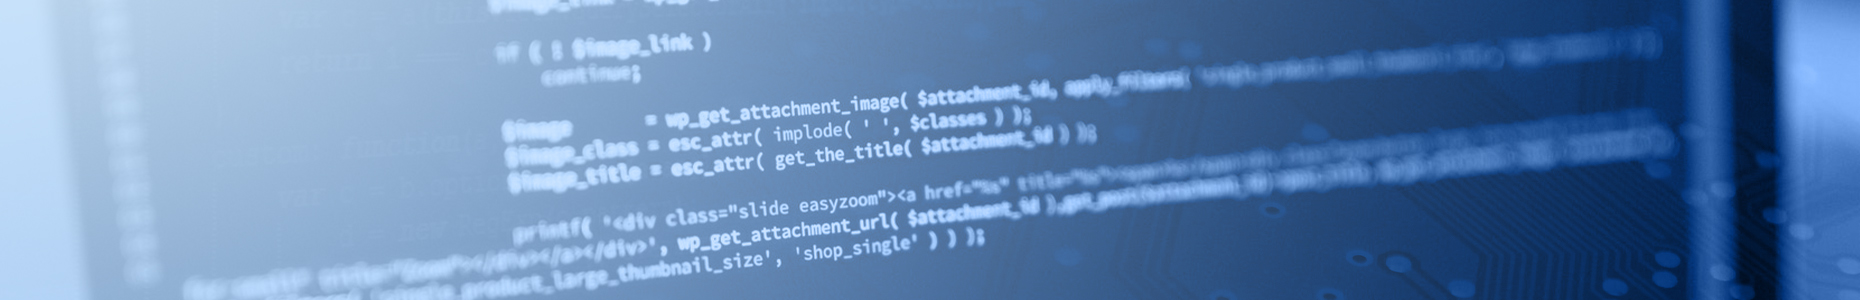
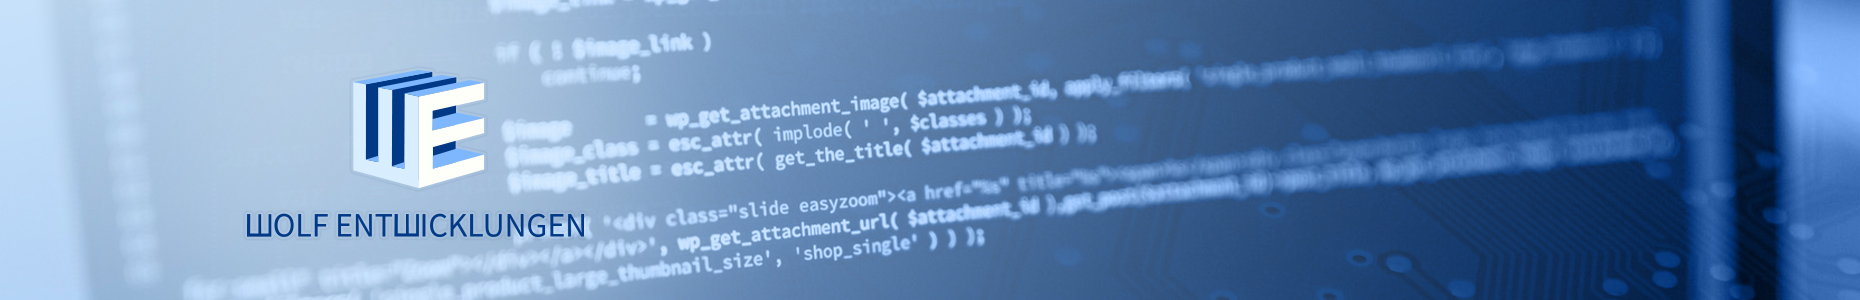
some changes from Hanna

Changed region(s): [[0.1247, 0.21, 0.343, 0.9], [0.1871, 0.87, 0.3118, 1.0]]

diff --git a/knowledge.html b/knowledge.html
@@ -55,9 +55,6 @@
 	</header>
 	<div class="position-relative" style="padding-top: 3.5em; background: #0f3f7f;">
 		<img src="img/header.jpg" alt="..." style="display: inline-block; max-width: 100%; height: auto; " width="100%">
-		<div class="position-absolute top-50 start-0 translate-middle-y" style="width: 20%; height: auto;">
-				<img src="img/logoblau.svg" alt="..." class="logo" style="padding-top: 4.0em; padding-left: 10.0rem">
-		</div>
 	</div>
 	
 	<main>
@@ -78,9 +75,9 @@
 					<p class="text-justify" style="padding-top: 2%;">Im Folgenden möchte ich Ihnen einen tabellarischen Überblick über meine Kenntnisse und Fähigkeiten geben.</p>
 					<div class="row row-cols-1 row-cols-md-3 mb-3 text-center">
 						<div class="col">
-						  <div class="card mb-4 shadow-sm" style="height: 26em;">
+						  <div class="card mb-4 shadow-sm">
 						  <div class="card-header">
-							<h5 class="my-0 fw-normal">Kernkompetenzen</h5>
+								<h5 class="my-0 fw-normal">Kernkompetenzen</h5>
 						  </div>
 						  <div class="card-body">
 							<ul class="list-unstyled mt-3 mb-4 b">
@@ -98,7 +95,7 @@
 						</div>
 						</div>
 						<div class="col">
-						  <div class="card mb-4 shadow-sm" style="height: 26em;">
+						  <div class="card mb-4 shadow-sm">
 						  <div class="card-header">
 							<h5 class="my-0 fw-normal">Entwicklungstools</h5>
 						  </div>
@@ -118,7 +115,7 @@
 						</div>
 						</div>
 						<div class="col">
-						  <div class="card mb-4 shadow-sm" style="height: 26em;">
+						  <div class="card mb-4 shadow-sm">
 						  <div class="card-header">
 							<h5 class="my-0 fw-normal">Programmier- und Skiptsprachen</h5>
 						  </div>
@@ -139,7 +136,7 @@
 					  </div>
 					  <div class="row row-cols-1 row-cols-md-3 mb-3 text-center">
 						<div class="col">
-						  <div class="card mb-4 shadow-sm" style="height: 14em;">
+						  <div class="card mb-4 shadow-sm">
 						  <div class="card-header">
 							<h5 class="my-0 fw-normal">Betriebssysteme</h5>
 						  </div>
@@ -155,7 +152,7 @@
 						</div>
 						</div>
 						<div class="col">
-						  <div class="card mb-4 shadow-sm" style="height: 14em;">
+						  <div class="card mb-4 shadow-sm">
 						  <div class="card-header">
 							<h5 class="my-0 fw-normal">Schaltungstechnik</h5>
 						  </div>
@@ -169,7 +166,7 @@
 						</div>
 						</div>
 						<div class="col">
-						  <div class="card mb-4 shadow-sm" style="height: 14em;">
+						  <div class="card mb-4 shadow-sm">
 						  <div class="card-header">
 							<h5 class="my-0 fw-normal">Sprachen</h5>
 						  </div>
@@ -185,7 +182,7 @@
 					  </div>
 					  <div class="row row-cols-1 row-cols-md-3 mb-3 text-center">
 						<div class="col">
-						  <div class="card mb-4 shadow-sm" style="height: 26em;">
+						  <div class="card mb-4 shadow-sm">
 						  <div class="card-header">
 							<h5 class="my-0 fw-normal">Kommunikations-<br>schnittstellen</h5>
 						  </div>

diff --git a/projects.html b/projects.html
@@ -55,9 +55,6 @@
 	</header>
 	<div class="position-relative" style="padding-top: 3.5em; background: #0f3f7f;">
 		<img src="img/header.jpg" alt="..." style="display: inline-block; max-width: 100%; height: auto; " width="100%">
-		<div class="position-absolute top-50 start-0 translate-middle-y" style="width: 20%; height: auto;">
-				<img src="img/logoblau.svg" alt="..." class="logo" style="padding-top: 4.0em; padding-left: 10.0rem;">
-		</div>
 	</div>
 	
 	<main>
@@ -69,7 +66,7 @@
 						<div class="col">
 						  <div class="card mb-4 shadow-sm">
 							<div class="card-header">
-								<h5 class="my-0 fw-normal text-center">Smart Meteringn</h5>
+								<h5 class="my-0 fw-normal text-center align-middle">Smart Meteringn</h5>
 							</div>
 							 <div class="card-body"  >
 								<div class="row project">

diff --git a/about.html b/about.html
@@ -55,9 +55,6 @@
 	</header>
 	<div class="position-relative" style="padding-top: 3.5em; background: #0f3f7f;">
 		<img src="img/header.jpg" alt="..." style="display: inline-block; max-width: 100%; height: auto; " width="100%">
-		<div class="position-absolute top-50 start-0 translate-middle-y" style="width: 20%; height: auto;">
-				<img src="img/logoblau.svg" alt="..." class="logo" style="padding-top: 4.0em; padding-left: 10.0rem;">
-		</div>
 	</div>
 	
 	<main>

diff --git a/contact.html b/contact.html
@@ -55,9 +55,6 @@
 	</header>
 	<div class="position-relative" style="padding-top: 3.5em; background: #0f3f7f;">
 		<img src="img/header.jpg" alt="..." style="display: inline-block; max-width: 100%; height: auto; " width="100%">
-		<div class="position-absolute top-50 start-0 translate-middle-y" style="width: 20%; height: auto;">
-				<img src="img/logoblau.svg" alt="..." class="logo" style="padding-top: 4.0em; padding-left: 10.0rem;">
-		</div>
 	</div>
 	
 	<main>

diff --git a/download.html b/download.html
@@ -64,9 +64,6 @@
 	</header>
 	<div class="position-relative" style="padding-top: 3.5em; background: #0f3f7f;">
 		<img src="img/header.jpg" alt="..." style="display: inline-block; max-width: 100%; height: auto; " width="100%">
-		<div class="position-absolute top-50 start-0 translate-middle-y" style="width: 20%; height: auto;">
-				<img src="img/logoblau.svg" alt="..." class="logo" style="padding-top: 4.0em; padding-left: 10.0rem;">
-		</div>
 	</div>
 	
 	<main>

diff --git a/index.html b/index.html
@@ -55,9 +55,6 @@
 	</header>
 	<div class="position-relative" style="padding-top: 3.5em; background: #0f3f7f;">
 		<img src="img/header.jpg" alt="..." style="display: inline-block; max-width: 100%; height: auto; " width="100%">
-		<div class="position-absolute top-50 start-0 translate-middle-y" style="width: 20%; height: auto;">
-				<img src="img/logoblau.svg" alt="..." class="logo" style="padding-top: 4.0em; padding-left: 10.0rem;">
-		</div>
 	</div>
 	
 	<main>

diff --git a/philosophie.html b/philosophie.html
@@ -55,9 +55,6 @@
 	</header>
 	<div class="position-relative" style="padding-top: 3.5em; background: #0f3f7f;">
 		<img src="img/header.jpg" alt="..." style="display: inline-block; max-width: 100%; height: auto; " width="100%">
-		<div class="position-absolute top-50 start-0 translate-middle-y" style="width: 20%; height: auto;">
-				<img src="img/logoblau.svg" alt="..." class="logo" style="padding-top: 4.0em; padding-left: 10.0rem;">
-		</div>
 	</div>
 	
 	<main>

diff --git a/profile.html b/profile.html
@@ -55,9 +55,6 @@
 	</header>
 	<div class="position-relative" style="padding-top: 3.5em; background: #0f3f7f;">
 		<img src="img/header.jpg" alt="..." style="display: inline-block; max-width: 100%; height: auto; " width="100%">
-		<div class="position-absolute top-50 start-0 translate-middle-y" style="width: 20%; height: auto;">
-				<img src="img/logoblau.svg" alt="..." class="logo" style="padding-top: 4.0em; padding-left: 10.0rem;">
-		</div>
 	</div>
 	
 	<main>

diff --git a/qualification.html b/qualification.html
@@ -55,9 +55,6 @@
 	</header>
 	<div class="position-relative" style="padding-top: 3.5em; background: #0f3f7f;">
 		<img src="img/header.jpg" alt="..." style="display: inline-block; max-width: 100%; height: auto; " width="100%">
-		<div class="position-absolute top-50 start-0 translate-middle-y" style="width: 20%; height: auto;">
-				<img src="img/logoblau.svg" alt="..." class="logo" style="padding-top: 4.0em; padding-left: 10.0rem;">
-		</div>
 	</div>
 	
 	<main>

diff --git a/references.html b/references.html
@@ -55,9 +55,6 @@
 	</header>
 	<div class="position-relative" style="padding-top: 3.5em; background: #0f3f7f;">
 		<img src="img/header.jpg" alt="..." style="display: inline-block; max-width: 100%; height: auto; " width="100%">
-		<div class="position-absolute top-50 start-0 translate-middle-y" style="width: 20%; height: auto;">
-				<img src="img/logoblau.svg" alt="..." class="logo" style="padding-top: 4.0em; padding-left: 10.0rem;">
-		</div>
 	</div>
 	
 	<main>

diff --git a/css/main.css b/css/main.css
@@ -82,6 +82,7 @@ ul.b{
 .card-header{
 	height: 4em;
 	display: inline-block;
+	
 }
 /* unvisited link */
 .text-menu{
